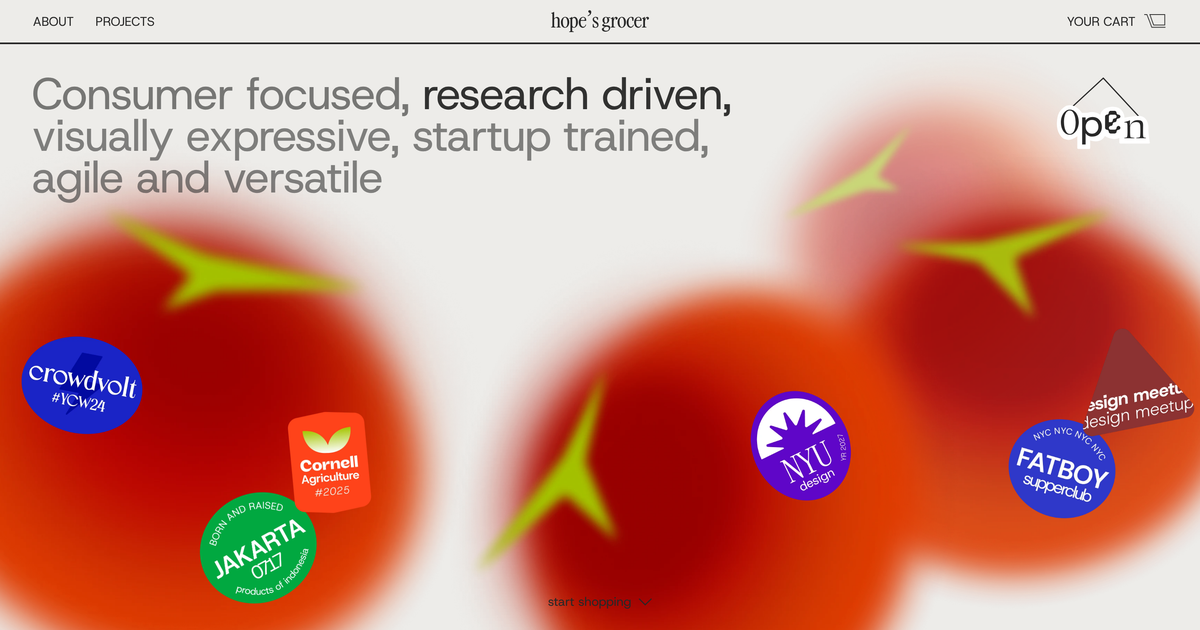
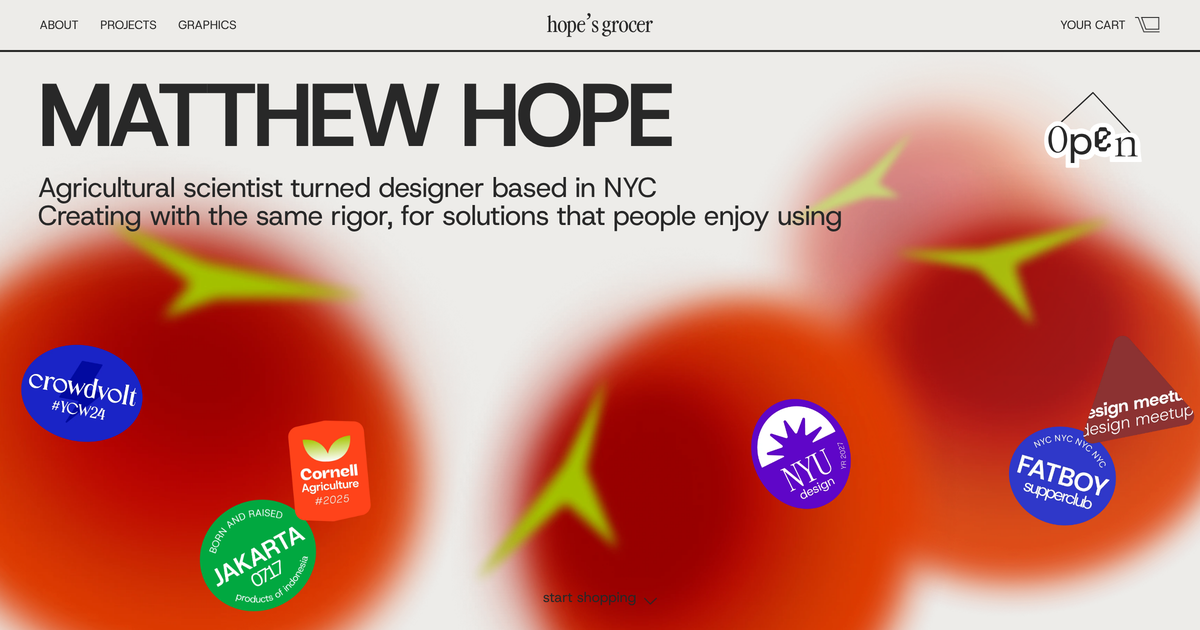
LinkedIn link on the receipt; Inquirer 180,000 users; Bid Warning iterations paragraph; link previews from the new homepage; phones keep the old receipt page (no thank-you copy)
Claude-Session: https://claude.ai/code/session_01GYPHnZVL3HH7QMswTWv6Z2

diff --git a/data/caseStudies.ts b/data/caseStudies.ts
@@ -676,7 +676,7 @@ const crowdvolt: CaseSection[] = [
           {
             type: "callout",
             text: "Should the friction be added as a separate page or embedded in the current flow?",
-            body: "After identifying the core part of the problem, I realized there were two places to add friction",
+            body: "After identifying where friction should be added, I created 2 iterations that have different ways of adding friction. The first one is to add a totally separate warning page, which adds a lot more friction than the second choice which is to just embed a secondary checkbox.",
           },
           {
             type: "figures",
@@ -1039,7 +1039,7 @@ const inquirer: CaseSection[] = [
           {
             type: "callout",
             text: "Pennsylvania’s largest media outlet",
-            body: "The Philadelphia Inquirer is the third-longest-running media outlet in the United States and the largest one in the Philadelphia Metropolitan Area and Pennsylvania. They have 170,000 active users and are constantly looking to keep up with the ever-changing news landscape.",
+            body: "The Philadelphia Inquirer is the third-longest-running media outlet in the United States and the largest one in the Philadelphia Metropolitan Area and Pennsylvania. They have 180,000 active users and are constantly looking to keep up with the ever-changing news landscape.",
           },
         ],
       },

diff --git a/data/site.ts b/data/site.ts
@@ -13,11 +13,10 @@ export const socialLinks = [
 ];
 
 // the receipt page's contact icons (Figma 533:1601), in this order
-// TODO: LinkedIn — Matthew's profile URL still needed
 export const contactLinks = [
   { label: "X", icon: "x", href: "https://x.com/matthopeyy" },
   { label: "Instagram", icon: "instagram", href: "https://www.instagram.com/hopegoestoplay/" },
-  { label: "LinkedIn", icon: "linkedin", href: "https://www.linkedin.com/" },
+  { label: "LinkedIn", icon: "linkedin", href: "https://www.linkedin.com/in/matthewhope1/" },
   { label: "Email", icon: "email", href: "mailto:matthew.hope.yonatan@gmail.com?subject=HOPES%20GROCER" },
 ] as const;
 
@@ -103,7 +102,7 @@ export const projects: Project[] = [
     href: "/?project=inquirer",
     video: "/projects/inquirer.mp4",
     intro:
-      "The Philadelphia Inquirer is Pennsylvania’s largest daily newspaper and media outlet with over 170,000 active users. My team and I worked with them to design a holistic audio experience, edge cases included. I ultimately owned a new personalization feature.",
+      "The Philadelphia Inquirer is Pennsylvania’s largest daily newspaper and media outlet with over 180,000 active users. My team and I worked with them to design a holistic audio experience, edge cases included. I ultimately owned a new personalization feature.",
     facts: {
       timeline: "Feb 2025 – May 2025",
       role: "Contract Product Designer",

diff --git a/app/page.tsx b/app/page.tsx
@@ -9,7 +9,7 @@ import styles from "./page.module.css";
 
 /**
  * A shared project link (/?project=slug, which opens that case study) gets its own link preview:
- * the project's tray as the picture (public/og/<slug>.jpg, a still of the homepage tray) and the
+ * the project's tray as the picture (public/og/<slug>-v2.jpg, a still of the project preview on the homepage) and the
  * project's name. Any other link to the homepage keeps the site's own preview (layout.tsx).
  */
 export async function generateMetadata({
@@ -21,7 +21,7 @@ export async function generateMetadata({
   const p = projects.find((x) => x.slug === slug);
   if (!p) return {};
   const title = `${p.title} — hope’s grocer`;
-  const image = { url: `/og/${p.slug}.jpg`, width: 1200, height: 630, alt: `${p.title}: ${p.subtitle}` };
+  const image = { url: `/og/${p.slug}-v2.jpg`, width: 1200, height: 630, alt: `${p.title}: ${p.subtitle}` };
   return {
     title,
     description: p.subtitle,

diff --git a/components/Receipt.module.css b/components/Receipt.module.css
@@ -644,19 +644,11 @@
   }
 }
 
-/* narrow screens: a size down, so "THANKS FOR" stays on one line */
+/* narrow screens keep the receipt page as it was: just the slip, no thank-you or links */
 @media (max-width: 1023px) {
-  .thanks {
-    font-size: min(52px, calc(128 * var(--ru)));
+  .copy {
+    display: none;
   }
-  .lede {
-    font-size: min(22px, calc(40 * var(--ru)));
-  }
-}
-
-/* narrow: the copy rises in under the slip once it has printed, with the buttons */
-.copy > * {
-  animation: actionsIn 450ms var(--ease-out) 4900ms backwards;
 }
 
 /* ── wide screens (Figma 533:1333): the slip on the left at 112, the copy from 736 — 102 apart,

diff --git a/CLAUDE.md b/CLAUDE.md
@@ -55,7 +55,7 @@ implements his designs faithfully.
   - `GrocersSelects` — poster shelf (display only: posters aren't clickable and don't go in the cart)
   - `cart/` — `CartContext` (sessionStorage) + `CartDrawer` + `SlideToCheckout` (drag the handle across to check out: saves a receipt, empties the cart, goes to `/receipt`)
   - `Receipt` (Figma 146:168) + `Tilt` (card that tips under the pointer) + `ReceiptBack` (Figma 504:4934; it prints photo side up (a photobooth) and "flip me!" under the slip turns it to the order details: the grey square takes a webcam shot ("smile", straight away) or an upload — it opens on "Take photo or Upload"; phones get the system camera — and prints it black-and-white with noise and thin white streaks like a thermal receipt (the corner tomatoes are printed black-and-white too), gone on reload; under it "CERTIFIED HOPEFUL" with today's date and the visitor's city (`app/api/where` reads Vercel's IP-city header; NYC if unknown); both sides draw and download via a small icon bottom-right) — the receipt lists the basket, a Notes box the visitor types into, the thing they looked at longest (case study or sticker story) and their total time on the site (`lib/visit.ts`); visitors can draw on it with a marker (`useMarker`; red, mint `#00DBA4` in dark mode, the tilt lies flat while drawing; a clear icon fades in at the slip's bottom-left once there is ink, left out of the download); download (PNG via `html-to-image`) / share
-  - Receipt page on wide screens (≥1024, Figma 533:1333): the slip prints in the middle, slides left (`--shift`, `slideOver`), "THANKS FOR COMING" + lede + contact icons (`contactLinks` in `data/site.ts`) slide in on the right, then the tomatoes fill in; narrow screens keep the centred slip with the copy under it
+  - Receipt page on wide screens (≥1024, Figma 533:1333): the slip prints in the middle, slides left (`--shift`, `slideOver`), "THANKS FOR COMING" + lede + contact icons (`contactLinks` in `data/site.ts`) slide in on the right, then the tomatoes fill in; narrow screens (<1024) keep the old receipt page: just the centred slip, no thank-you copy or links
   - `TicketmasterPhones` — CrowdVolt's ticket-batching screens rebuilt in code for the case study's
     Ticketmaster Flow (Figma 129:100): two loop while on screen (options get clicked through; a ticket
     moves between custom batches; the final choices get clicked through, each acting out what it means; the delivery ticket is sent off and the next slides in), plus the post-listing feedback center (CrowdVolt web file `9rCf0BMSB7gfBbdL1pANc8`, 14873:1228 / 14886:3593: `status-one`, `status-batch`; Check status gets tapped and the tickets refresh; icons in `public/projects/crowdvolt/status/`). Space Grotesk (`--font-cv`) is
